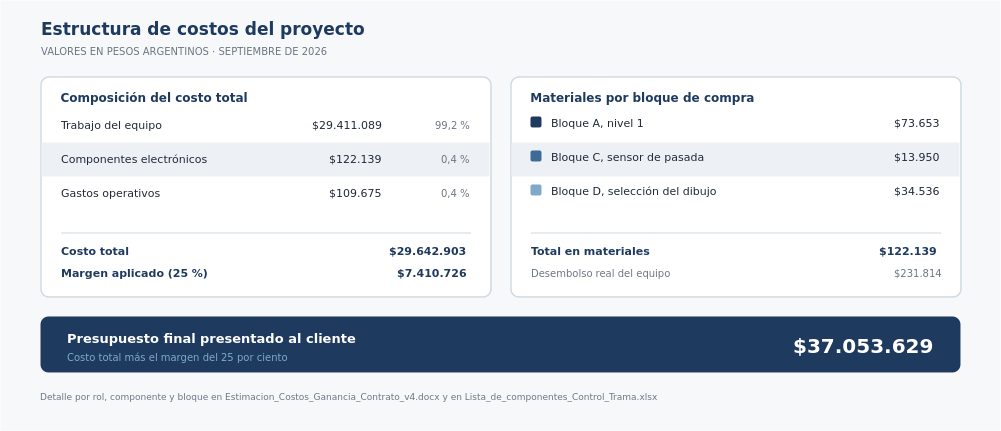
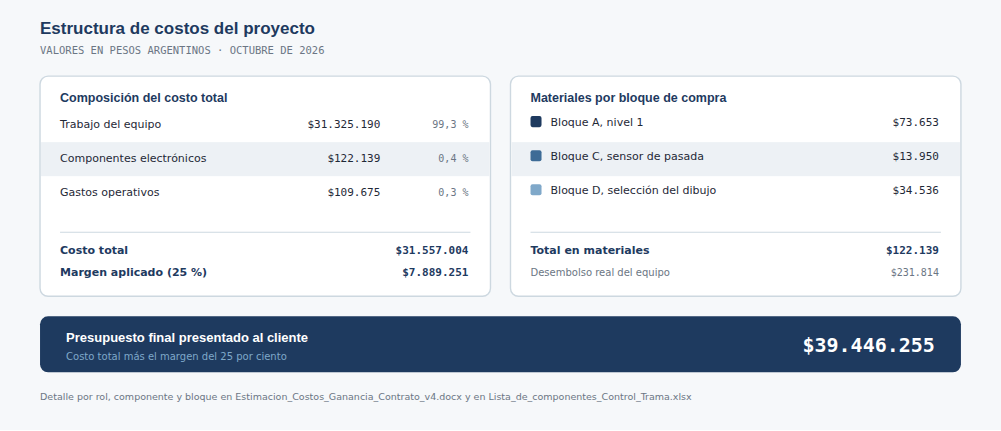
Add files via upload

diff --git a/index.html b/index.html
@@ -386,7 +386,7 @@ El conteo de pasadas se resuelve mediante el sensor inductivo del Bloque C, incl
 <p class="cap">Tabla 10. Interfaces de hardware del nodo de control (RHW).</p>
 <h4>La botonera del telar</h4><p>Los cinco pulsadores de la máquina, repartidos en dos tableros. El sistema interviene Marcha y Pausa, del tablero principal, y Retroceder, del secundario; Impulso y Avanzar quedan fuera del alcance por encontrarse desconectados.</p><div class="gal"><figure><img src="fotos/botonera-principal.jpg" alt="Tablero principal: «Marcia Discontinua» (Impulso), «Stop» (Pausa) y «Avviamento / Start» (Marcha)." loading="lazy"><figcaption>Tablero principal: "Marcia Discontinua" (Impulso), "Stop" (Pausa) y "Avviamento / Start" (Marcha).</figcaption></figure><figure><img src="fotos/botonera-secundaria.jpg" alt="Tablero secundario: «Avanti / Advance» (Avanzar) e «Indietro / Returne» (Retroceder)." loading="lazy"><figcaption>Tablero secundario: "Avanti / Advance" (Avanzar) e "Indietro / Returne" (Retroceder).</figcaption></figure></div><h3 id="s4-7">4.7. Limitaciones del alcance (LIM)</h3>
 <p>Se registran explícitamente las funciones que quedan fuera del alcance de esta entrega, con el motivo de la exclusión y su continuidad prevista.</p>
-<div class="tw"><table><thead><tr><th>ID</th><th>Limitación</th><th>Situación actual</th><th>Motivo</th><th>Continuidad</th></tr></thead><tbody><tr><td>LIM01</td><td>Control del dibujo por marcos (Nivel 2)</td><td>El telar sigue tomando el patrón de su cinta de papel perforada. El sistema todavía no comanda las bobinas de selección: el 10/10/2026 el circuito se probó en protoboard y funcionó, y se está haciendo la plaqueta para la prueba en la máquina.</td><td>El punto de intervención ya está definido (la señal de cada lector óptico). Falta medir la salida de un lector y armar y probar los Bloques C y D.</td><td>En desarrollo (Etapa 05)</td></tr><tr><td>LIM02</td><td>Conteo real de pasadas, RESUELTO EN ESTA ETAPA</td><td>El sensor inductivo del Bloque C se incorpora al alcance de esta entrega.</td><td>Su punto de montaje quedó definido el 10/09/2026, sobre un eje que da una vuelta por pasada; el 10/10/2026 se probó en protoboard con el ESP32 y funcionó. Hasta que el sensor se conecte al Nivel 2 en la máquina y se valide su conteo, el avance es una estimación por tiempo.</td><td>Incluido en esta etapa</td></tr><tr><td>LIM03</td><td>Botones Avanzar e Impulso</td><td>Quedan fuera del sistema: no se accionan ni se sensan.</td><td>Se encuentran desconectados en la máquina, según relevamiento.</td><td>Excluido</td></tr><tr><td>LIM04</td><td>Aplicación Android</td><td>Se entrega solo la base de arquitectura, sin funcionalidad.</td><td>El producto de esta etapa es la aplicación web, accesible desde el navegador del celular.</td><td>Lineamiento futuro</td></tr><tr><td>LIM05</td><td>Placa de circuito impreso a medida</td><td>La entrega se realiza sobre placa universal perforada soldada, salvo la plaqueta del sensado de la botonera, que es impresa.</td><td>El diseño y la fabricación de un PCB propio para todo el nodo solo se justifica ante una producción en serie.</td><td>Lineamiento futuro</td></tr><tr><td>LIM06</td><td>Enlace de Internet redundante</td><td>Se utiliza el servicio existente de la fábrica, sin respaldo por red móvil.</td><td>El sistema es fail-safe: ante un corte, el telar sigue operable a mano y no se detiene la producción.</td><td>Lineamiento futuro</td></tr><tr><td>LIM07</td><td>Operación de múltiples telares</td><td>El nodo controla un único telar, identificado en su configuración.</td><td>La arquitectura ya contempla varios telares en la base de datos; falta el hardware de cada nodo adicional.</td><td>Lineamiento futuro</td></tr></tbody></table></div>
+<div class="tw"><table><thead><tr><th>ID</th><th>Limitación</th><th>Situación actual</th><th>Motivo</th><th>Continuidad</th></tr></thead><tbody><tr><td>LIM01</td><td>Control del dibujo por marcos (Nivel 2)</td><td>El telar sigue tomando el patrón de su cinta de papel perforada. El sistema todavía no comanda las bobinas de selección: el 10/10/2026 el circuito se probó en protoboard y funcionó, y se está haciendo la plaqueta para la prueba en la máquina.</td><td>El punto de intervención ya está definido (la señal de cada lector óptico). Falta medir la salida de un lector y armar y probar los Bloques C y D.</td><td>En desarrollo (Etapa 07)</td></tr><tr><td>LIM02</td><td>Conteo real de pasadas, RESUELTO EN ESTA ETAPA</td><td>El sensor inductivo del Bloque C se incorpora al alcance de esta entrega.</td><td>Su punto de montaje quedó definido el 10/09/2026, sobre un eje que da una vuelta por pasada; el 10/10/2026 se probó en protoboard con el ESP32 y funcionó. Hasta que el sensor se conecte al Nivel 2 en la máquina y se valide su conteo, el avance es una estimación por tiempo.</td><td>Incluido en esta etapa</td></tr><tr><td>LIM03</td><td>Botones Avanzar e Impulso</td><td>Quedan fuera del sistema: no se accionan ni se sensan.</td><td>Se encuentran desconectados en la máquina, según relevamiento.</td><td>Excluido</td></tr><tr><td>LIM04</td><td>Aplicación Android</td><td>Se entrega solo la base de arquitectura, sin funcionalidad.</td><td>El producto de esta etapa es la aplicación web, accesible desde el navegador del celular.</td><td>Lineamiento futuro</td></tr><tr><td>LIM05</td><td>Placa de circuito impreso a medida</td><td>La entrega se realiza sobre placa universal perforada soldada, salvo la plaqueta del sensado de la botonera, que es impresa.</td><td>El diseño y la fabricación de un PCB propio para todo el nodo solo se justifica ante una producción en serie.</td><td>Lineamiento futuro</td></tr><tr><td>LIM06</td><td>Enlace de Internet redundante</td><td>Se utiliza el servicio existente de la fábrica, sin respaldo por red móvil.</td><td>El sistema es fail-safe: ante un corte, el telar sigue operable a mano y no se detiene la producción.</td><td>Lineamiento futuro</td></tr><tr><td>LIM07</td><td>Operación de múltiples telares</td><td>El nodo controla un único telar, identificado en su configuración.</td><td>La arquitectura ya contempla varios telares en la base de datos; falta el hardware de cada nodo adicional.</td><td>Lineamiento futuro</td></tr></tbody></table></div>
 <p class="cap">Tabla 11. Limitaciones del alcance de la entrega (LIM).</p>
 </section>
 <section id="s5">
@@ -428,23 +428,25 @@ El conteo de pasadas se resuelve mediante el sensor inductivo del Bloque C, incl
 </section>
 <section id="s6">
 <h2><span class="n">6</span>Oferta de Gestión</h2>
-<h3 id="s6-1">6.1. GANTT</h3><div class="gantt-box"><div class="gb-t"><span class="gb-et">Cronograma</span><h4>Gantt del proyecto</h4><p>Ocho etapas, 160 tareas, del 16/03/2026 al 14/11/2026. La planilla viva se consulta y edita en línea.</p></div><div class="gb-a"><a class="pri" href="https://docs.google.com/spreadsheets/d/1j9wnMkIVjhfJJa1L1moT2Me8cceHcB-8K-QVOFKrYMg/edit?usp=drive" target="_blank" rel="noopener"><svg viewBox="0 0 24 24" width="15" height="15" fill="none" stroke="currentColor" stroke-width="2"><rect x="3" y="4" width="18" height="16" rx="2"/><path d="M6 9h7M6 13h11M6 17h5"/></svg>Abrir el Gantt completo</a><a href="https://drive.google.com/drive/folders/1_fm_XLeg3niDwfOnUQ7fJfQqJblQ3a85?usp=drive_link" target="_blank" rel="noopener"><svg viewBox="0 0 24 24" width="15" height="15" fill="currentColor"><path d="M7.7 2h8.6l5.2 9h-8.6zM6.4 3.3 1.2 12.4 5.5 20l5.2-9zM7.3 21h13.4l2.1-3.7H9.4z"/></svg>Carpeta en Drive</a></div></div>
+<h3 id="s6-1">6.1. GANTT</h3><div class="gantt-box"><div class="gb-t"><span class="gb-et">Cronograma</span><h4>Gantt del proyecto</h4><p>Ocho etapas, 166 tareas, del 16/03/2026 al 14/11/2026. La planilla viva se consulta y edita en línea.</p></div><div class="gb-a"><a class="pri" href="https://docs.google.com/spreadsheets/d/1j9wnMkIVjhfJJa1L1moT2Me8cceHcB-8K-QVOFKrYMg/edit?usp=drive" target="_blank" rel="noopener"><svg viewBox="0 0 24 24" width="15" height="15" fill="none" stroke="currentColor" stroke-width="2"><rect x="3" y="4" width="18" height="16" rx="2"/><path d="M6 9h7M6 13h11M6 17h5"/></svg>Abrir el Gantt completo</a><a href="https://drive.google.com/drive/folders/1_fm_XLeg3niDwfOnUQ7fJfQqJblQ3a85?usp=drive_link" target="_blank" rel="noopener"><svg viewBox="0 0 24 24" width="15" height="15" fill="currentColor"><path d="M7.7 2h8.6l5.2 9h-8.6zM6.4 3.3 1.2 12.4 5.5 20l5.2-9zM7.3 21h13.4l2.1-3.7H9.4z"/></svg>Carpeta en Drive</a></div></div>
 <div class="gantt-box"><div class="gb-t"><span class="gb-et">Flujo de fondos</span><h4>Cashflow del proyecto</h4><p>Costos de personal por rol y por etapa, semana a semana, con el Valor Actual Neto descontado a la tasa de referencia del sistema bancario. Vive en la misma planilla que el Gantt.</p></div><div class="gb-a"><a class="pri" href="https://docs.google.com/spreadsheets/d/1j9wnMkIVjhfJJa1L1moT2Me8cceHcB-8K-QVOFKrYMg/edit?usp=drive" target="_blank" rel="noopener"><svg viewBox="0 0 24 24" width="15" height="15" fill="none" stroke="currentColor" stroke-width="2"><circle cx="12" cy="12" r="9"/><path d="M12 7v10M9 9.5c0-1.5 1.3-2 3-2s3 .8 3 2c0 1.4-1.3 2-3 2s-3 .6-3 2c0 1.2 1.3 2 3 2s3-.5 3-2"/></svg>Ver el Cashflow</a></div></div>
 <figure><img src="gantt.png" alt="Figura 11. Cronograma del proyecto organizado en 8 etapas.">
-<p>El cronograma completo del proyecto se organiza en ocho etapas de trabajo, desde la definición inicial hasta la presentación final, con un total de 160 tareas distribuidas entre los integrantes del equipo. La figura siguiente resume las etapas, su cantidad de tareas y sus fechas de inicio y cierre.</p>
+<p>El cronograma completo del proyecto se organiza en ocho etapas de trabajo, desde la definición inicial hasta la presentación final, con un total de 166 tareas distribuidas entre los integrantes del equipo. La figura siguiente resume las etapas, su cantidad de tareas y sus fechas de inicio y cierre.</p>
 <figcaption>Figura 11. Cronograma del proyecto organizado en 8 etapas, del 16/03/2026 al 14/11/2026.</figcaption></figure>
-<p>El cronograma real del proyecto (Gantt_2026 - Automatizacion de Telar Industrial.xlsx) comenzó el 16/03/2026 y proyecta su cierre el 14/11/2026 (243 días corridos), organizado en 8 etapas de trabajo. El cronograma completo, con las 160 tareas, sus responsables y sus dependencias, se mantiene en esa planilla, disponible en la carpeta compartida del equipo. Estado de avance a la fecha de esta versión de la documentación:</p>
+<p>El cronograma real del proyecto (Gantt_2026 - Automatizacion de Telar Industrial.xlsx) comenzó el 16/03/2026 y proyecta su cierre el 14/11/2026 (243 días corridos), organizado en 8 etapas de trabajo. El cronograma completo, con las 166 tareas, sus responsables y sus dependencias, se mantiene en esa planilla, disponible en la carpeta compartida del equipo. Estado de avance a la fecha de esta versión de la documentación:</p>
 <p><b>Etapas 01 a 03 (16/03 al 06/07/2026, completadas):</b></p>
 <p>Etapa 01, Definición de proyecto: análisis de mercado, dos rondas de entrevistas con el cliente, especificación de requerimientos y elección del proyecto final. Etapa 02, Mockup: investigación de referentes, Design System, wireframes y prototipo de alta fidelidad, validados con el cliente el 24/06/2026. Etapa 03, Armado de HTML/CSS + Servidor + BD: maquetación conectada al backend en Node.js/Express, base de datos PostgreSQL desplegada en Neon.</p>
-<p><b>Etapa 04 (06/07 en adelante, en curso):</b></p>
-<p>Integración Electrónica y Control Físico del Telar: árbol de problemas y soluciones, corrección del MVP con alta del login biométrico, diseño eléctrico y BOM del Nivel 1, compra de componentes, armado de la etapa de alimentación (220 V → 5 V), cableado ESP32↔relés, firmware en C++ y prueba integral de Marcha, Pausa y Retroceder en el telar real (hecha el 19/09/2026).</p>
+<p><b>Etapas 04 a 06 (06/07 al 16/10/2026, completadas):</b></p>
+<p>Etapa 04, Nivel 1: control de la botonera y sensado: árbol de problemas y soluciones, corrección del MVP con alta del login biométrico, diseño eléctrico y BOM del Nivel 1, compra de componentes, armado de la fuente propia (220 V → 5 V), cableado ESP32↔relés, sensado de la botonera, firmware en C++ y prueba integral de Marcha, Pausa y Retroceder en el telar real (hecha el 19/09/2026). Etapa 05, Nivel 2: selección de bobinas en banco: el sensor de pasada y los relés LCA110 probados en protoboard en la fábrica (10/10/2026), la conexión final del relé y el sensado de la botonera en una plaqueta propia. Etapa 06, Documentación, costos, manual y landing page: costos, modalidad de inversión y contrato, manuales de uso, landing page y video promocional.</p>
+<p><b>Etapas 07 y 08 (10/10 al 14/11/2026, en curso):</b></p>
+<p>Etapa 07, Plaquetas soldadas e instalación del Nivel 2 en el telar: las cinco plaquetas soldadas, la instalación del gabinete, la medición de los lectores, el sensor de pasada y los relés LCA110 en la máquina, la prueba integral y el período de prueba. Etapa 08, Cierre del proyecto y presentación final: la presentación a los profesores (04/11/2026), la prueba con un trabajador de la fábrica, el video de entrevista al cliente, la entrega al cliente y la presentación final en la Expo (14/11/2026).</p>
 <p><b>Diagrama de Tareas de Cátedra:</b></p>
 <p>El seguimiento del proyecto frente al calendario institucional se consolida en cinco hitos académicos, alineados a las 8 etapas reales del Gantt:</p>
 <p><b>HITO 1 (16/03 AL 10/05/2026, Etapa 01, completado):</b> Levantamiento de información y diagnóstico operativo en la fábrica textil. Dos rondas de entrevistas con el cliente, armado del Árbol de Problemas y Soluciones, definición del alcance funcional del retrofit y confección del Product Backlog inicial.</p>
 <p><b>HITO 2 (12/05 AL 06/07/2026, Etapas 02 y 03, completado):</b> Diseño de la arquitectura de software y validación del prototipo de alta fidelidad (sistema de diseño propio: paleta de azules, tipografía IBM Plex Sans y Questrial) con el cliente. Maquetación en HTML/CSS/JS, backend en Node.js/Express y modelado de la base de datos relacional en PostgreSQL (Neon).</p>
-<p><b>HITO 3 (06/07 AL 18/10/2026, Etapas 04 y 05, en curso):</b> Desarrollo del firmware del nodo ESP32 en C++: Nivel 1 (relés de Marcha, Pausa y Retroceder, instalado y probado en el telar el 19/09/2026) y Nivel 2 (control de las bobinas de selección: probado en protoboard el 10/10/2026, con la plaqueta en armado y la medición del lector pendiente). Alta del login biométrico WebAuthn y protecciones eléctricas del BOM.</p>
-<p><b>HITO 4 (Etapas 06 y 07, en curso):</b> Integración final de hardware y pruebas de campo en fábrica con los dos niveles de control operando en conjunto, validación de la sincronización de pasada y de la respuesta en tiempo real, e integración total con la base de datos de fábrica.</p>
-<p><b>HITO 5 (hasta 14/11/2026, Etapa 08, cierre):</b> Consolidación de la memoria técnica final, confección de manuales de usuario y mantenimiento, cierre del presupuesto y listado de componentes (BOM), y defensa final del proyecto técnico.</p>
+<p><b>HITO 3 (06/07 AL 16/10/2026, Etapas 04 y 05, completado):</b> Desarrollo del firmware del nodo ESP32 en C++: Nivel 1 (relés de Marcha, Pausa y Retroceder, instalado y probado en el telar el 19/09/2026) y Nivel 2 (control de las bobinas de selección: probado en protoboard el 10/10/2026; las plaquetas soldadas y la medición del lector siguen en la Etapa 07). Alta del login biométrico WebAuthn y protecciones eléctricas del BOM.</p>
+<p><b>HITO 4 (13/09 AL 05/11/2026, Etapas 06 y 07, en curso):</b> Integración final de hardware y pruebas de campo en fábrica con los dos niveles de control operando en conjunto, validación de la sincronización de pasada y de la respuesta en tiempo real, e integración total con la base de datos de fábrica.</p>
+<p><b>HITO 5 (02/11 AL 14/11/2026, Etapa 08, cierre):</b> Consolidación de la memoria técnica final, confección de manuales de usuario y mantenimiento, cierre del presupuesto y listado de componentes (BOM), la presentación a los profesores (04/11/2026) y la defensa final del proyecto técnico.</p>
 <h3 id="s6-2">6.2. Product Backlog</h3>
 <p>Backlog global del proyecto, organizado por épicas (grandes bloques funcionales) y priorizado desde lo más visual y básico hasta el control mecánico más complejo. Refleja la planificación base del equipo; el estado real de avance de cada ítem se sigue en el Gantt (Sección 6.1) y en la Bitácora de Proyecto.</p>
 <div class="pb-ep"><span class="pb-n">Épica 1</span><h4>Interfaz y navegación</h4></div><ul class="pb"><li><span class="pb-id">PB-1.1</span><b>Layout Principal (HTML/CSS)</b><span class="pb-d">Pantalla de inicio clara y estructurada que divide el espacio entre el área de diseño visual y los controles de la máquina, para operar de forma intuitiva.</span></li><li><span class="pb-id">PB-1.2</span><b>Explorador de Matrices</b><span class="pb-d">Listado lateral con las matrices ya guardadas en la base de datos, para seleccionar una rápidamente y mandarlo a tejer.</span></li><li><span class="pb-id">PB-1.3</span><b>Limpieza de Interfaz</b><span class="pb-d">Botones grandes y legibles en pantallas táctiles o monitores industriales, sin necesidad de navegar por menús ocultos.</span></li></ul><div class="pb-ep"><span class="pb-n">Épica 2</span><h4>Editor de matrices</h4></div><ul class="pb"><li><span class="pb-id">PB-2.1</span><b>Grilla Interactiva Base</b><span class="pb-d">Lienzo HTML cuadriculado donde un clic alterna el estado de la celda (1 = levantado, 0 = abajo), para dibujar el ligamento.</span></li><li><span class="pb-id">PB-2.2</span><b>Ajuste de Dimensiones</b><span class="pb-d">Inputs numéricos para definir dinámicamente cuántos hilos de urdimbre y pasadas de trama tendrá la matriz antes de empezar a dibujar.</span></li><li><span class="pb-id">PB-2.3</span><b>Empaquetador de Datos (JS)</b><span class="pb-d">El dibujo visual de la grilla se convierte automáticamente en un arreglo bidimensional (JSON) en segundo plano, listo para viajar al servidor.</span></li><li><span class="pb-id">PB-2.4</span><b>Herramientas de Agilidad</b><span class="pb-d">Botones de acceso rápido para “Limpiar grilla”, “Invertir colores” o “Completar fila”, para no tener que hacer cientos de clics manuales en matrices grandes.</span></li></ul><div class="pb-ep"><span class="pb-n">Épica 3</span><h4>Persistencia y base de datos</h4></div><ul class="pb"><li><span class="pb-id">PB-3.1</span><b>Guardado de Nuevo Patrón (Create)</b><span class="pb-d">Escribir un nombre y presionar “Guardar” para que la matriz actual se inserte en PostgreSQL sin recargar la página.</span></li><li><span class="pb-id">PB-3.2</span><b>Lectura de Matrices (Read)</b><span class="pb-d">Endpoint que trae el historial de matrices guardadas y las inyecta en el Explorador de Matrices de la UI.</span></li><li><span class="pb-id">PB-3.3</span><b>Edición y Sobrescritura (Update)</b><span class="pb-d">Abrir un patrón existente, modificarlo y guardar los cambios sobre el mismo registro.</span></li><li><span class="pb-id">PB-3.4</span><b>Eliminación Segura (Delete)</b><span class="pb-d">Borrar matrices que ya no sirven para mantener limpia la biblioteca.</span></li></ul><div class="pb-ep"><span class="pb-n">Épica 4</span><h4>Comunicación con el nodo</h4></div><ul class="pb"><li><span class="pb-id">PB-4.1</span><b>Consola de Ejecución</b><span class="pb-d">Botones de &quot;Play&quot; (Marcha), &quot;Pausa&quot; y &quot;Retroceder&quot; que le indican al ESP32 cuándo arrancar, detener o retroceder el telar.</span></li><li><span class="pb-id">PB-4.2</span><b>Feedback Visual en Vivo</b><span class="pb-d">Mientras la máquina teje, la interfaz web resalta en color la fila exacta de la matriz que el telar está procesando.</span></li><li><span class="pb-id">PB-4.3</span><b>Función “Volver Atrás”</b><span class="pb-d">Ante un error físico en el hilo, poder retroceder un paso la posición registrada y que el resaltado visual en la web retroceda en conjunto, sincronizando el estado del sistema con lo que el operario corrige a mano. Nota: este ítem, planteado originalmente como reversión mecánica de motores, se resolvió finalmente a nivel de posición/base de datos; su implementación final se documenta en el RF08.</span></li><li><span class="pb-id">PB-4.4</span><b>Reanudación Segura</b><span class="pb-d">Tras usar “Volver Atrás” y acomodar el hilo manualmente, poder presionar “Play” y que el sistema retome el flujo exactamente desde ese punto restablecido.</span></li></ul><p>Para la etapa inicial del proyecto (Etapa 03 del Gantt), el trabajo se enfocó en construir las bases web y la conexión de la base de datos, asegurando que los datos fluyeran desde la pantalla hasta PostgreSQL:</p>
@@ -480,14 +482,14 @@ Para la etapa actual del proyecto se resolvió continuar con el servicio existen
 <section id="s8">
 <h2><span class="n">8</span>Estimación Económica</h2>
 <figure><img src="estimacion.png" alt="Figura de la seccion 8">
-<p>El presupuesto se organiza en cuatro bloques de compra y confirma que toda la arquitectura de software seleccionada es de uso libre, con costo de licenciamiento mensual de $0. Los valores corresponden a la revisión del 28/08/2026 y se mantienen actualizados en la planilla del equipo (Lista_de_componentes_Control_Trama.xlsx y Estimacion_Costos_Ganancia_Contrato_v4.docx).</p>
-<figcaption>Figura 13. Estructura de costos del proyecto y esquema del servicio de mantenimiento.</figcaption></figure>
-<p>Los componentes efectivamente adquiridos para el Bloque A suman $73.653, a los que se agregan $13.950 del Bloque C y $34.536 del Bloque D, totalizando $122.139 en materiales. Sumando los gastos operativos de $109.675 y el valor del trabajo del equipo, valuado en $29.411.089 según las tarifas del proyecto, el costo total asciende a $29.642.903. Aplicando el margen del 25 % previsto, el presupuesto final es de $37.053.629, con una ganancia proyectada de $7.410.726.</p>
+<p>El presupuesto se organiza en cuatro bloques de compra y confirma que toda la arquitectura de software seleccionada es de uso libre, con costo de licenciamiento mensual de $0. Los valores corresponden a la revisión del 19/10/2026 y se mantienen actualizados en la planilla del equipo (Lista_de_componentes_Control_Trama.xlsx y Estimacion_Costos_Ganancia_Contrato_v4.docx).</p>
+<figcaption>Figura 13. Estructura de costos del proyecto.</figcaption></figure>
+<p>Los componentes efectivamente adquiridos para el Bloque A suman $73.653, a los que se agregan $13.950 del Bloque C y $34.536 del Bloque D, totalizando $122.139 en materiales. Sumando los gastos operativos de $109.675 y el valor del trabajo del equipo, valuado en $31.325.190 según las tarifas del proyecto, el costo total asciende a $31.557.004. Aplicando el margen del 25 % previsto, el presupuesto final es de $39.446.255, con una ganancia proyectada de $7.889.251.</p>
 <div class="tw"><table><thead><tr><th>BLOQUE DE COMPRA</th><th>CONTENIDO</th><th>CUÁNDO COMPRARLO</th><th>¿GRATIS/PRESTADO?</th><th>SUBTOTAL</th></tr></thead><tbody><tr><td>Bloque A, Nivel 1 (control y sensado)</td><td>ESP32, dos módulos de relé (uno de 2 canales y uno individual, 3 salidas en total), fuente HLK-5M05 220V→5V, fusible lento 1A, 3 optoacopladores PC817 con sus puentes rectificadores y resistencias limitadoras, 6 resistencias de polarización, capacitores de desacople, gabinete IP65, prensacables, borneras, cable multifilar de 6 conductores y 1 mm² y placa universal.</td><td>Etapa 4</td><td>No</td><td>$73.653</td></tr><tr><td>Bloque C, Sensor de pasada</td><td>Sensor inductivo LJ12A3-4-Z/BX (ya adquirido), optoacoplador y resistencias de adaptación de nivel, más el soporte de montaje (ya construido y montado el 10/09/2026).</td><td>Incluido en esta etapa</td><td>No</td><td>$13.950</td></tr><tr><td>Bloque D, Nivel 2 (selección del dibujo)</td><td>Intervención de las 4 bobinas de selección ya instaladas en el telar, que trabajan con 24 V en alterna: relés OptoMOS LCA110 (uno por lector óptico) con sus zócalos y sus resistencias (330 Ω y 10 kΩ del lado del ESP32; de protección y 10 kΩ ½ W del lado del telar). Las bobinas se siguen alimentando desde el propio telar.</td><td>Recién después de medir (tarea 5.9)</td><td>No</td><td>$34.536 (a completar tras medir la salida del lector óptico)</td></tr><tr><td>TOTAL DEL PROYECTO</td><td>Bloques A, C y D.</td><td>-</td><td>-</td><td>$122.139</td></tr></tbody></table></div>
 <p class="cap">Tabla 15. Bloques de compra: contenido, oportunidad y subtotal.</p>
-<p>La estructura de costos muestra que el 99,2 % corresponde al trabajo del equipo y solo el 0,8 % ($231.814, materiales y gastos operativos) a dinero efectivamente desembolsado. Orden de compra recomendado: (1) Bloque A, ya adquirido e instalado en el telar; (2) la medición del lector óptico en el telar; y (3) lo que falta de los Bloques C y D (el sensor ya se compró y el relé LCA110 se probó en protoboard), cuya resistencia de protección depende de esa medición. La planilla completa, con el detalle por ítem y los precios de referencia, se mantiene en el archivo Lista_de_componentes_Control_Trama.xlsx de la carpeta compartida del equipo.</p>
+<p>La estructura de costos muestra que el 99,3 % corresponde al trabajo del equipo y solo el 0,7 % ($231.814, materiales y gastos operativos) a dinero efectivamente desembolsado. Orden de compra recomendado: (1) Bloque A, ya adquirido e instalado en el telar; (2) la medición del lector óptico en el telar; y (3) lo que falta de los Bloques C y D (el sensor ya se compró y el relé LCA110 se probó en protoboard), cuya resistencia de protección depende de esa medición. La planilla completa, con el detalle por ítem y los precios de referencia, se mantiene en el archivo Lista_de_componentes_Control_Trama.xlsx de la carpeta compartida del equipo.</p>
 <ul>
-<li><b>Costos de operación mensuales recurrentes:</b> $0. El plan gratuito de Neon cubre las necesidades de un piloto de un solo telar sin costo de licenciamiento, y el despliegue del backend se realiza también sobre un plan sin cargo. A esto se suma el servicio de mantenimiento posterior a la garantía, detallado en la Estimación de Costos, que prevé un abono mensual de $129.625 y visitas de mantenimiento preventivo de $240.188 cada una.</li>
+<li><b>Costos de operación mensuales recurrentes:</b> $0. El plan gratuito de Neon cubre las necesidades de un piloto de un solo telar sin costo de licenciamiento, y el despliegue del backend se realiza también sobre un plan sin cargo. A esto se suma el servicio de mantenimiento posterior a la garantía, detallado en la Estimación de Costos, que prevé un abono mensual de $129.625 y visitas de mantenimiento preventivo de $228.750 cada una.</li>
 </ul>
 </section>
 <section id="s9">
@@ -539,7 +541,7 @@ Para la etapa actual del proyecto se resolvió continuar con el servicio existen
 <li><b>El Desarrollador se compromete a hacer entrega de:</b> un nodo electrónico ESP32 con la etapa de potencia y protecciones montadas y soldadas sobre placa universal perforada (y una plaqueta impresa para el sensado de la botonera), fijadas al gabinete con separadores y con borneras (no se entrega sobre protoboard), el firmware C++ cargado y testeado en el microcontrolador, la base de datos PostgreSQL (Neon) enlazada en tiempo real, el backend Node.js/Express y la interfaz web (con login biométrico WebAuthn) operativos durante una fase piloto. Quedan explícitamente fuera del acuerdo modificaciones a la estructura de engranajes, reparación de motores, provisión de repuestos mecánicos o la alteración mecánica del mecanismo de selección del telar.</li>
 </ul>
 <h3 id="s10-3">10.3. Plazos</h3>
-<p>El tiempo de ejecución para el Nivel 1 (MVP de arranque y pausa remotos, ya validado con relés en el telar real) corresponde a la Etapa 04 del Gantt, del 06/07/2026 al 18/10/2026. El despliegue del Nivel 2 (control de las bobinas de selección) corresponde a la Etapa 05, del 17/07/2026 al 15/10/2026. Las dos etapas se solapan a propósito y no son secuenciales: mientras el Nivel 1 se instala y se valida en la máquina, el Nivel 2 avanza en diseño, mediciones y desarrollo de firmware, actividades que no requieren detener el telar. La instalación efectiva del Nivel 2 en la máquina parte del Nivel 1 ya validado en el telar (19/09/2026), con la medición del lector óptico como primer paso obligatorio antes de conectar los relés LCA110. Fechas de hitos específicos según el cronograma: Gantt_2026 - Automatizacion de Telar Industrial.xlsx (inicio de proyecto 16/03/2026, cierre previsto 14/11/2026).</p>
+<p>El tiempo de ejecución para el Nivel 1 (MVP de arranque y pausa remotos, ya validado con relés en el telar real) corresponde a la Etapa 04 del Gantt, del 06/07/2026 al 24/09/2026. El desarrollo del Nivel 2 (control de las bobinas de selección) corresponde a la Etapa 05, del 17/07/2026 al 16/10/2026, y su instalación en la máquina a la Etapa 07, del 10/10/2026 al 05/11/2026. Las dos etapas se solapan a propósito y no son secuenciales: mientras el Nivel 1 se instala y se valida en la máquina, el Nivel 2 avanza en diseño, mediciones y desarrollo de firmware, actividades que no requieren detener el telar. La instalación efectiva del Nivel 2 en la máquina parte del Nivel 1 ya validado en el telar (19/09/2026), con la medición del lector óptico como primer paso obligatorio antes de conectar los relés LCA110. Fechas de hitos específicos según el cronograma: Gantt_2026 - Automatizacion de Telar Industrial.xlsx (inicio de proyecto 16/03/2026, cierre previsto 14/11/2026).</p>
 <h3 id="s10-4">10.4. Responsabilidades</h3>
 <ul>
 <li><b>Del Equipo de Desarrollo:</b> Asume la responsabilidad integral del proyecto: la planificación y el cumplimiento del cronograma, la calidad del software (frontend, backend y base de datos), la correcta integración del hardware con el telar, y la documentación del avance en la Bitácora de Proyecto. El equipo distribuye estas responsabilidades entre sus roles (Sección 2.3), pero responde de forma conjunta ante la cátedra y el cliente por el resultado final, no solo por el diseño electrónico de un componente en particular.</li>
